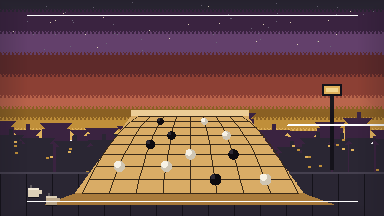
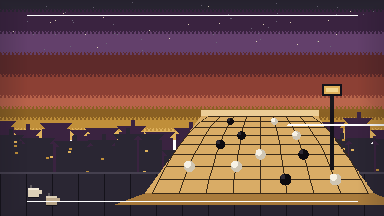
feat: refresh title and core-route scenery

Changed region(s): [[0.1562, 0.5, 1.0, 0.9722]]

diff --git a/tools/gen_maps.py b/tools/gen_maps.py
@@ -1056,13 +1056,19 @@ def validate(name, data):
 def presence_states(name, data):
     """Small persistent changes: the city notices progress, never the clock."""
     base_tiles = {
-        "attic": [{"tile": [6, 5], "name": "prop_satchel"}],
-        "ketelsteeg": [{"tile": [15, 10], "name": "prop_satchel"}],
-        "de_ketel": [{"tile": [7, 11], "name": "prop_cups"}],
+        "attic": [{"tile": [6, 5], "name": "prop_satchel"},
+                  {"tile": [7, 5], "name": "prop_papers"}],
+        "ketelsteeg": [{"tile": [15, 10], "name": "prop_satchel"},
+                        {"tile": [6, 10], "name": "prop_satchel"},
+                        {"tile": [17, 11], "name": "prop_chalk"},
+                        {"tile": [18, 17], "name": "prop_cups"}],
+        "de_ketel": [{"tile": [7, 11], "name": "prop_cups"},
+                     {"tile": [12, 10], "name": "prop_papers"}],
         "wassalon": [{"tile": [2, 7], "name": "prop_laundry"}],
         "onderbrug": [{"tile": [14, 9], "name": "prop_rope"}],
         "quay": [{"tile": [8, 5], "name": "prop_rope"}],
-        "academy_hall": [{"tile": [7, 5], "name": "prop_papers"}],
+        "academy_hall": [{"tile": [7, 5], "name": "prop_papers"},
+                         {"tile": [14, 8], "name": "prop_satchel"}],
         "academy_study": [{"tile": [10, 8], "name": "prop_papers"}],
         "academy_class": [{"tile": [8, 6], "name": "prop_papers"}],
         "academy_dorm": [{"tile": [5, 6], "name": "prop_satchel"}],

diff --git a/tools/gen_title.py b/tools/gen_title.py
@@ -65,8 +65,11 @@ def build(out_dir):
     for x in range(0, W, 26):
         im.vline(x, 174, H - 174, rgb("ink0"))
 
-    # --- the board, in true perspective: a trapezoid receding from the viewer
-    cx = 190
+    # --- the board, in true perspective: a trapezoid receding from the viewer.
+    # It deliberately sits on the right half: title_screen.gd reserves the
+    # left third for the poster card, rather than laying lettering on skyline
+    # noise and asking a player to read through it.
+    cx = 260
     rows_y, rows_hw = [], []
     y, gap = 116.0, 5.0
     for i in range(9):

diff --git a/ART_DIRECTION.md b/ART_DIRECTION.md
@@ -104,6 +104,9 @@ one tube on Ketelsteeg is a cyan and not a pink.
 - Terrain uses 3-value shading only (dark / base / light). No gradients.
 - Walkability, not decoration, decides tile identity: every solid tile is visibly solid
   (a wall has a top face and a shaded side; a fence has posts).
+- Everyday traces live on the decor layer: cups, papers, satchels, chalk and laundry
+  make a room or route feel used without changing collision, hiding a doorway, or
+  competing with an interactable. Reuse generated prop tiles rather than placing one-off pixels.
 - Interiors reuse the same atlas plus an interior strip (floorboards, mats, shelving, tables,
   De Ketel's board tables).
 - **Nothing in code refers to an atlas index.** `TileAtlas.at(name)` resolves every tile
